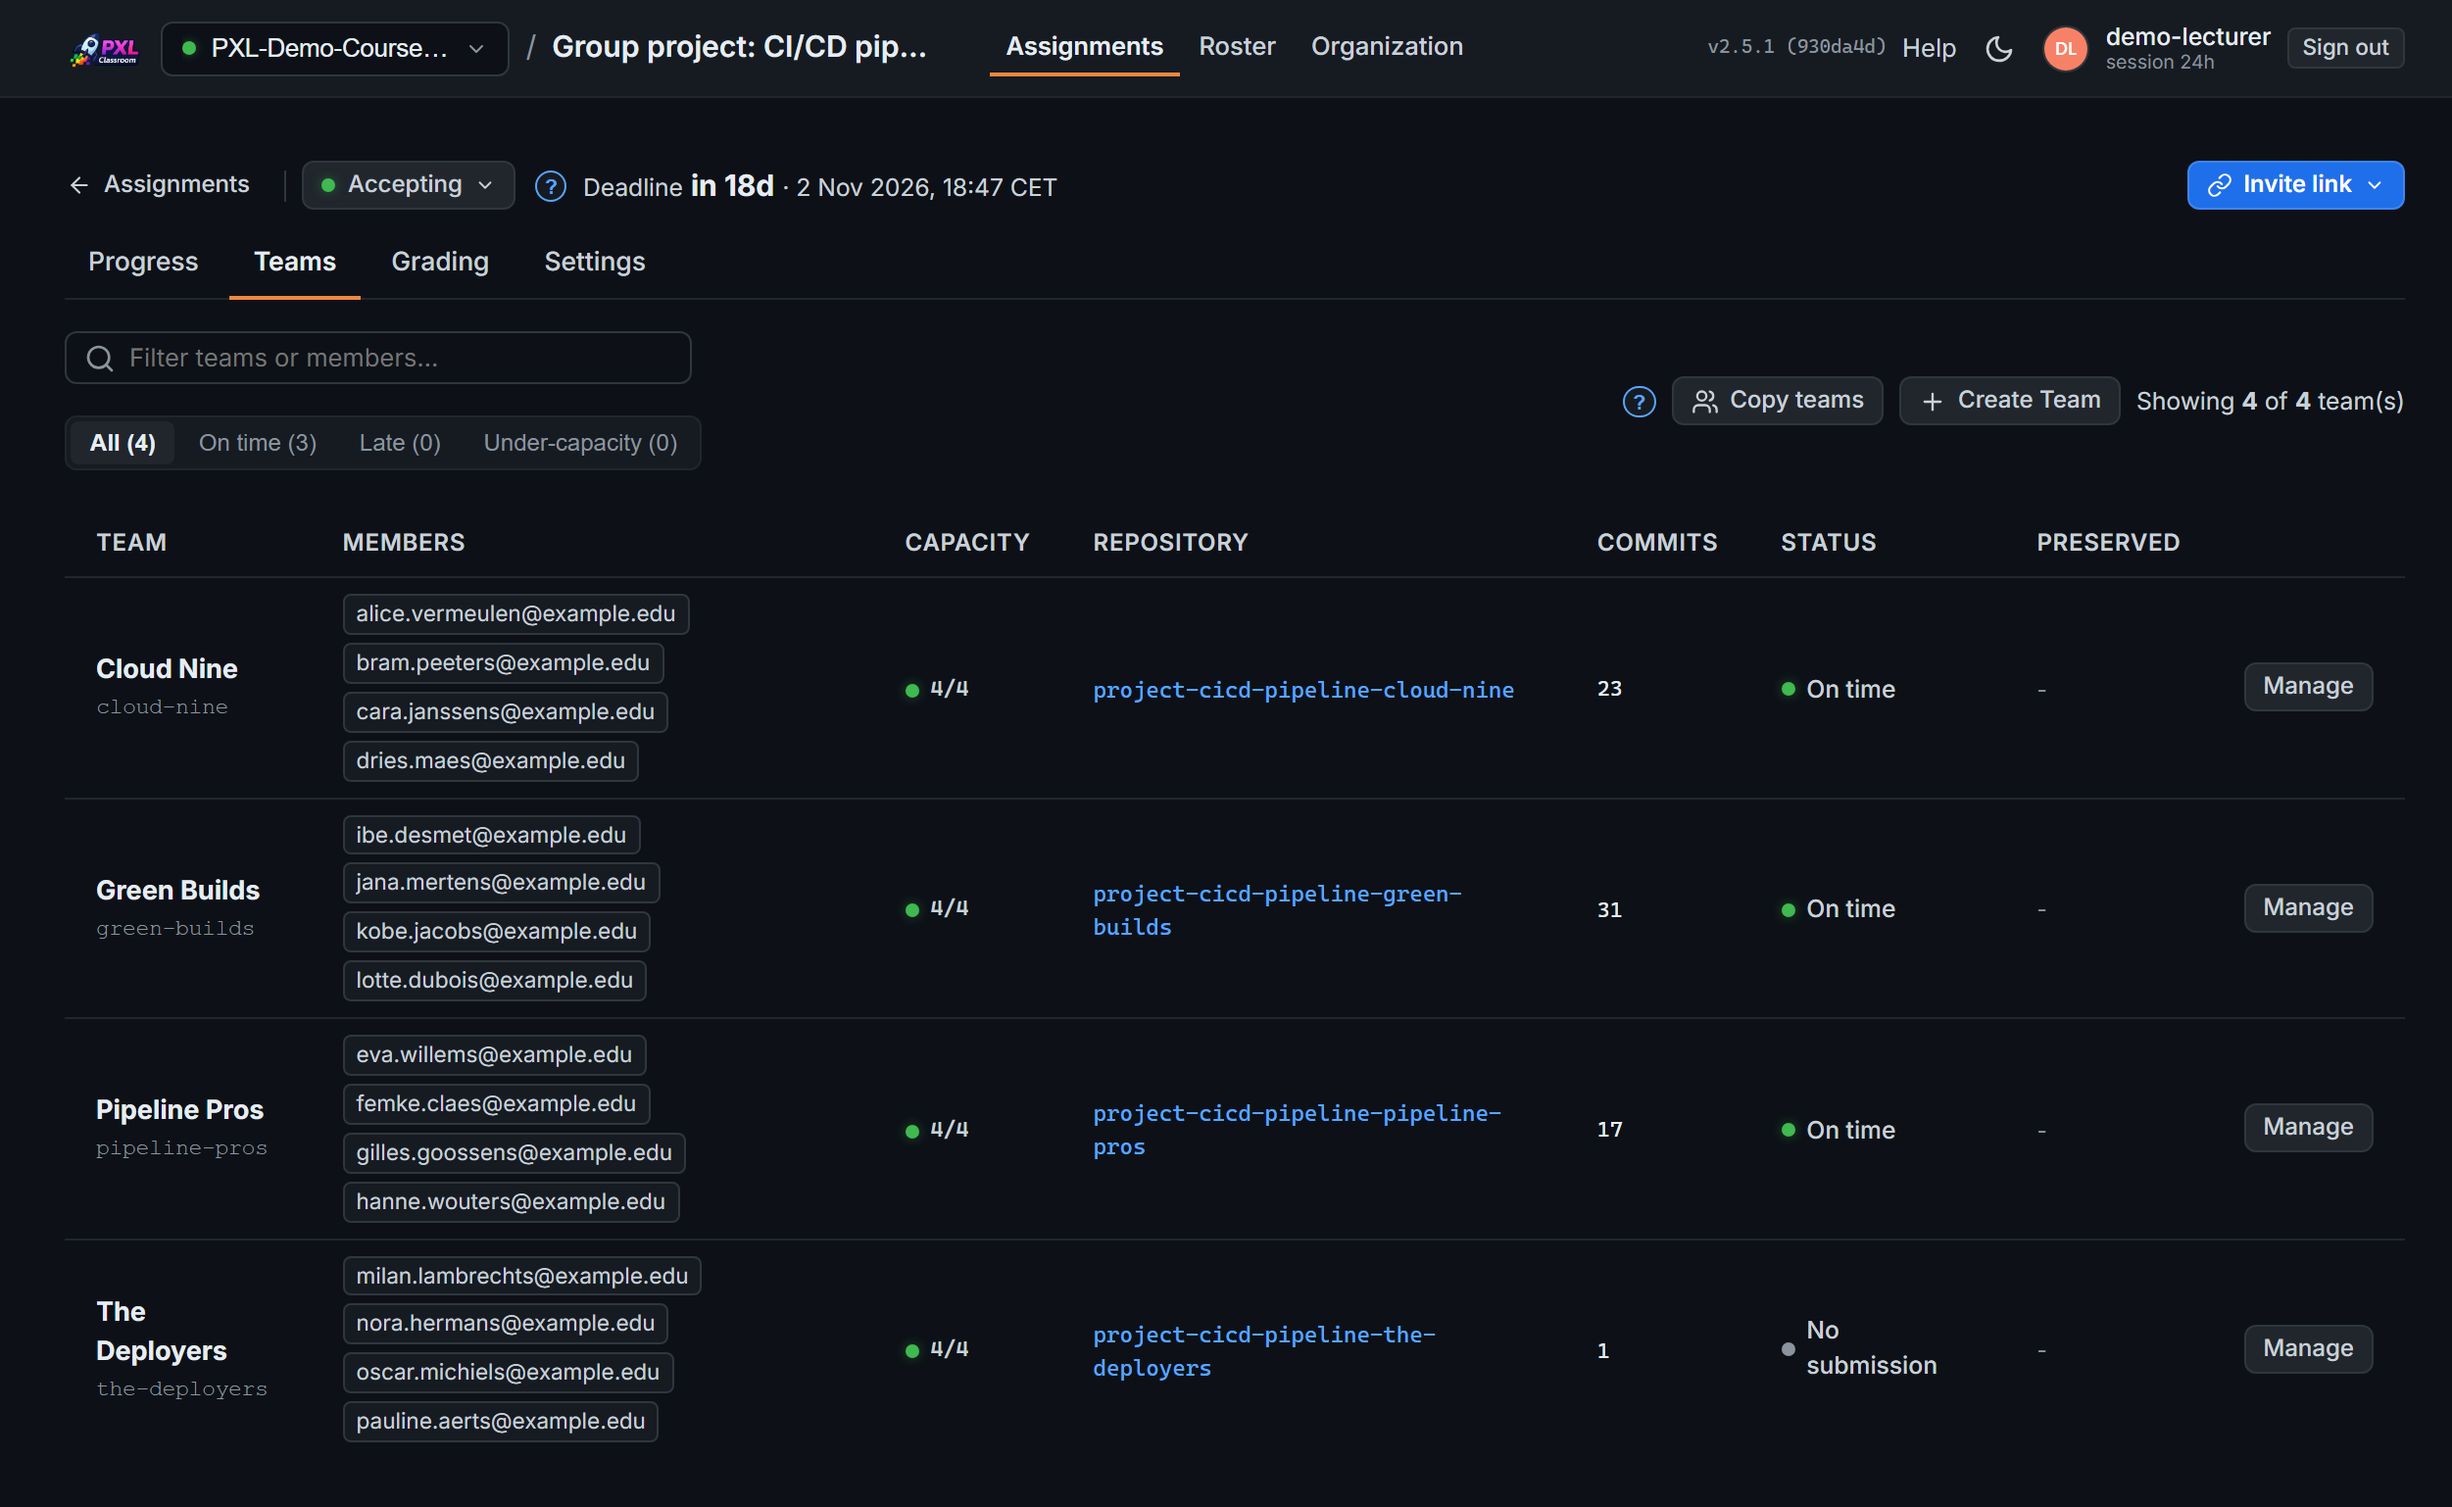
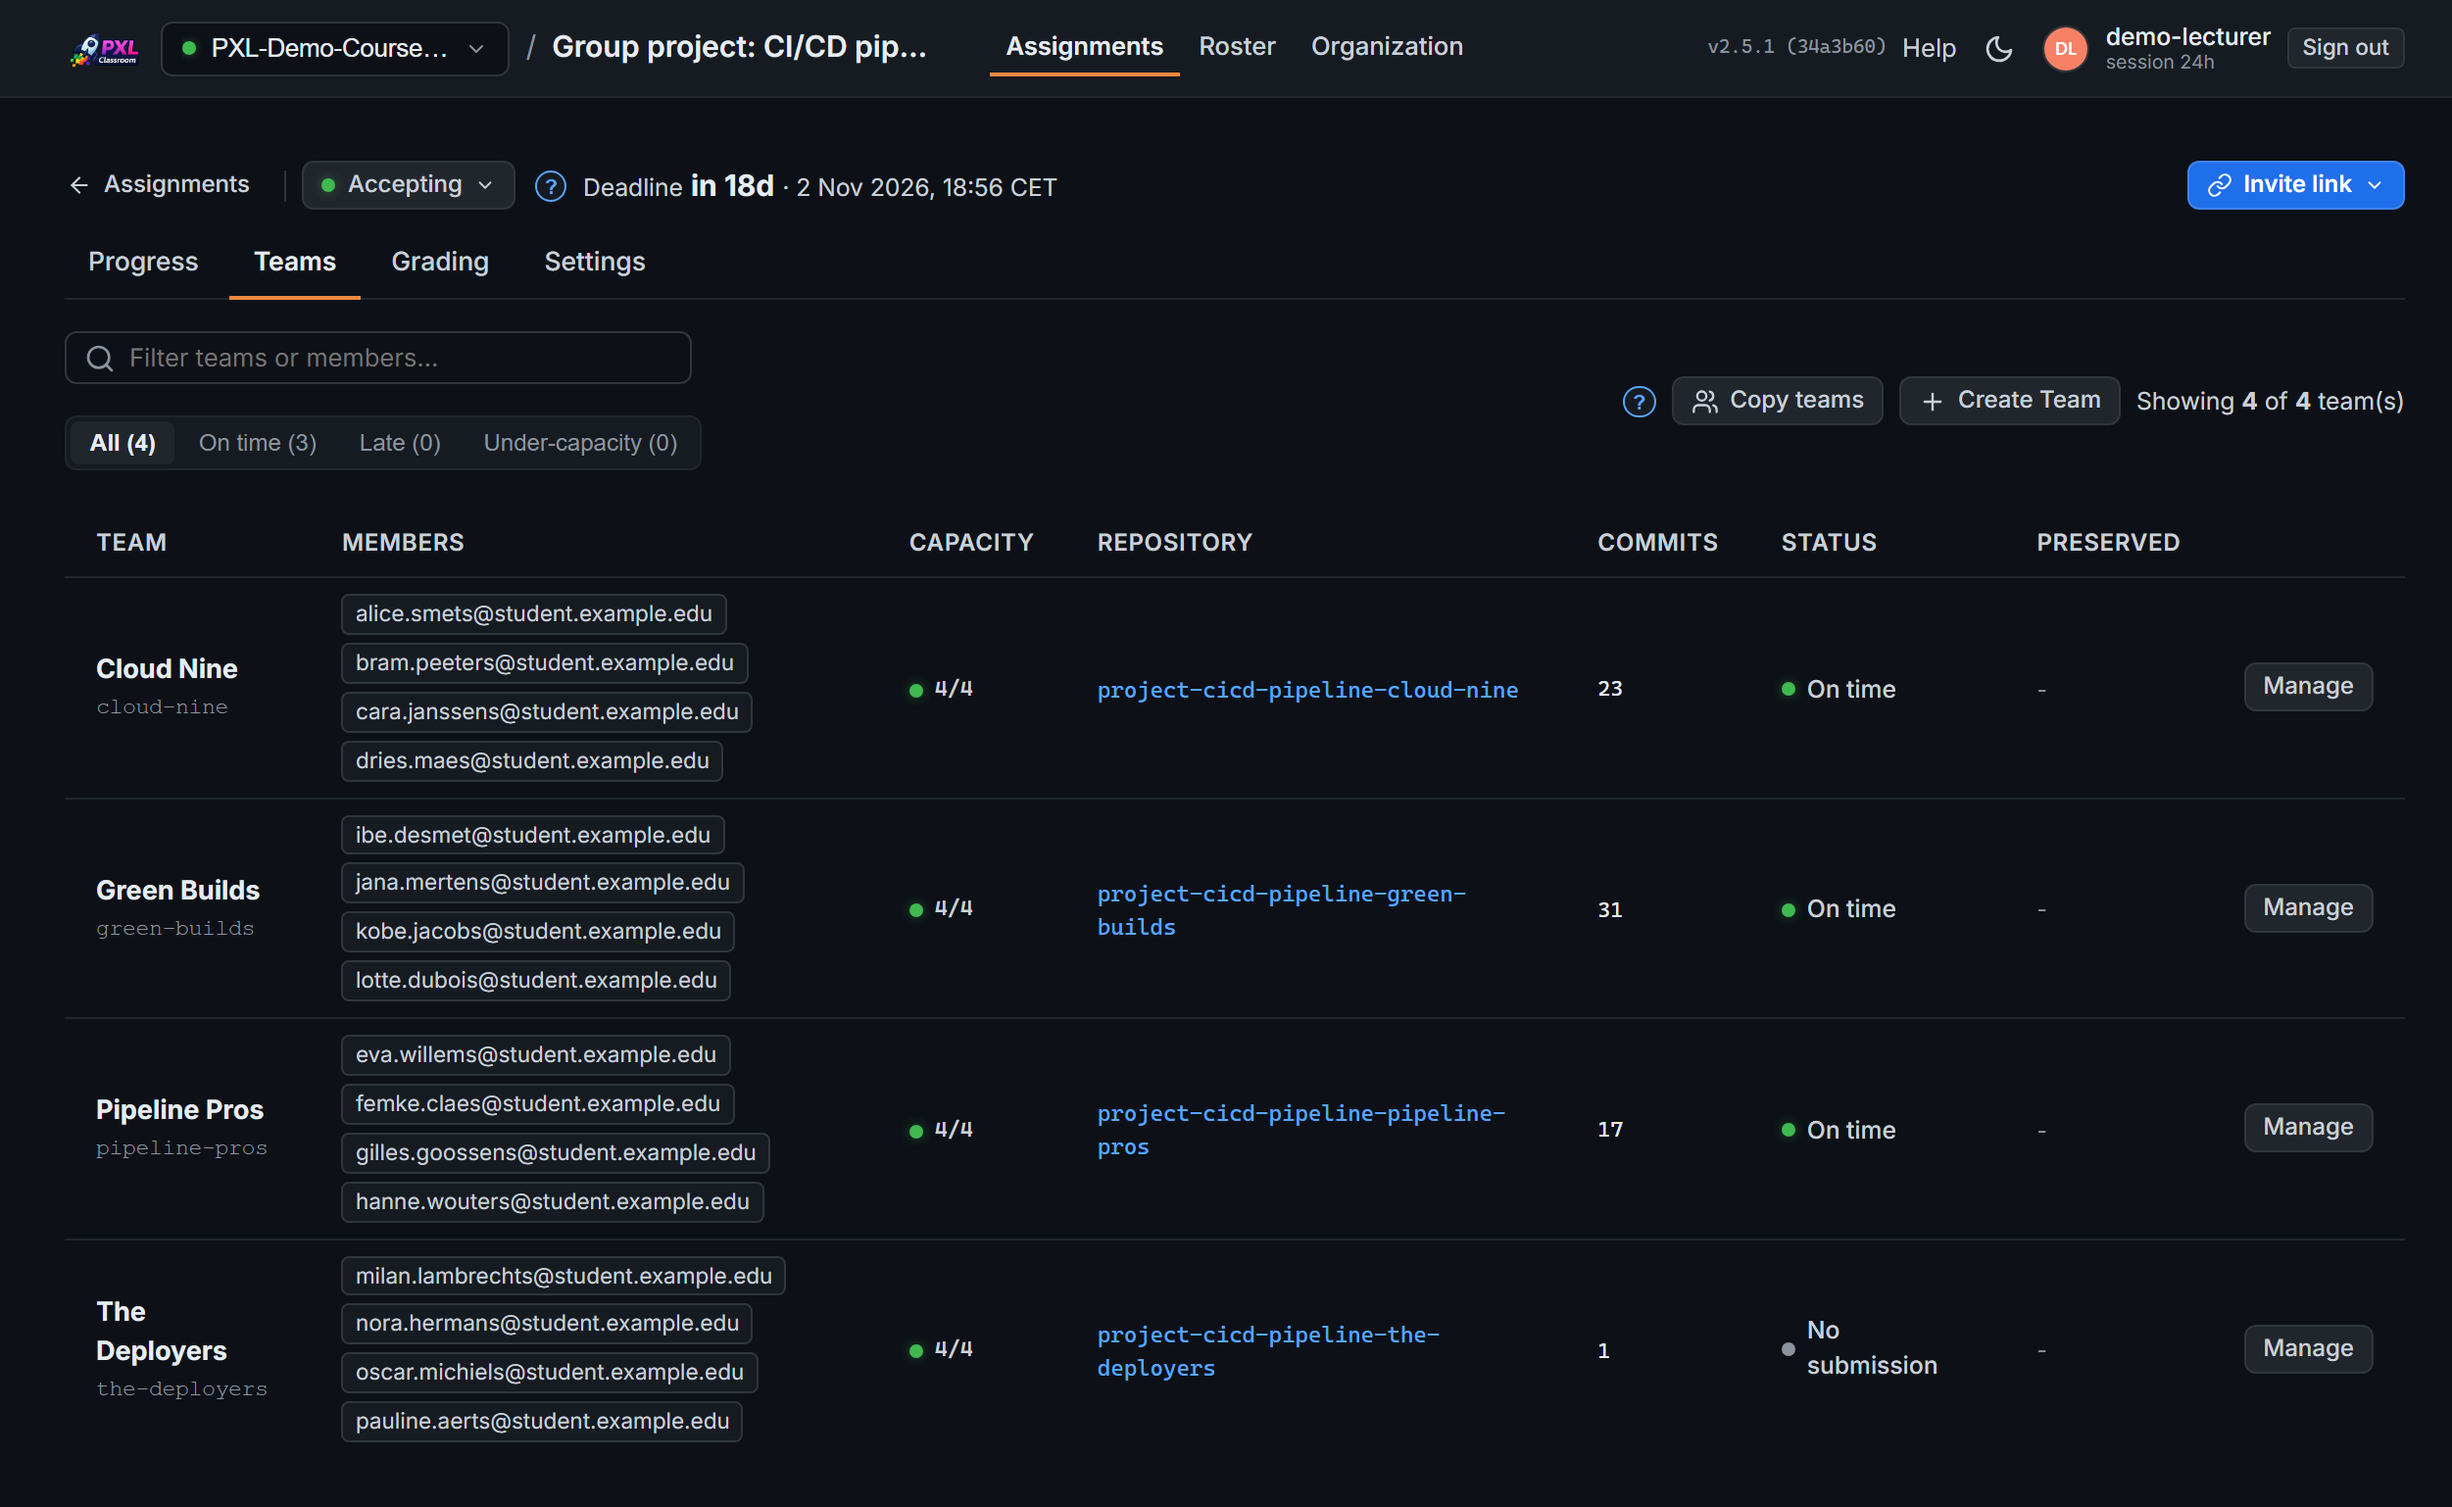
docs(readme): the screenshots' course confirms institutional addresses, as the form's default
The fictional course now uses what a new assignment starts with: anyone
with the link may accept, and each student confirms an institutional
address. Progress shows each address with its state (most GitHub-verified,
three typed by the student), and Grading and Teams show the same
addresses. At student.example.edu, so no invented name lands on a real
institution's address beside a grade.

diff --git a/README.md b/README.md
@@ -42,7 +42,7 @@ I built it for my own courses at first.
 ![Assignments at a glance](assets/images/readme-overview.png)
 
 ### Progress
-*One assignment, student by student: their repository, last commit and score.*
+*One assignment, student by student: the institutional address they confirmed when they accepted, their repository, last commit and score.*
 
 ![Progress of one assignment](assets/images/readme-progress.png)
 
